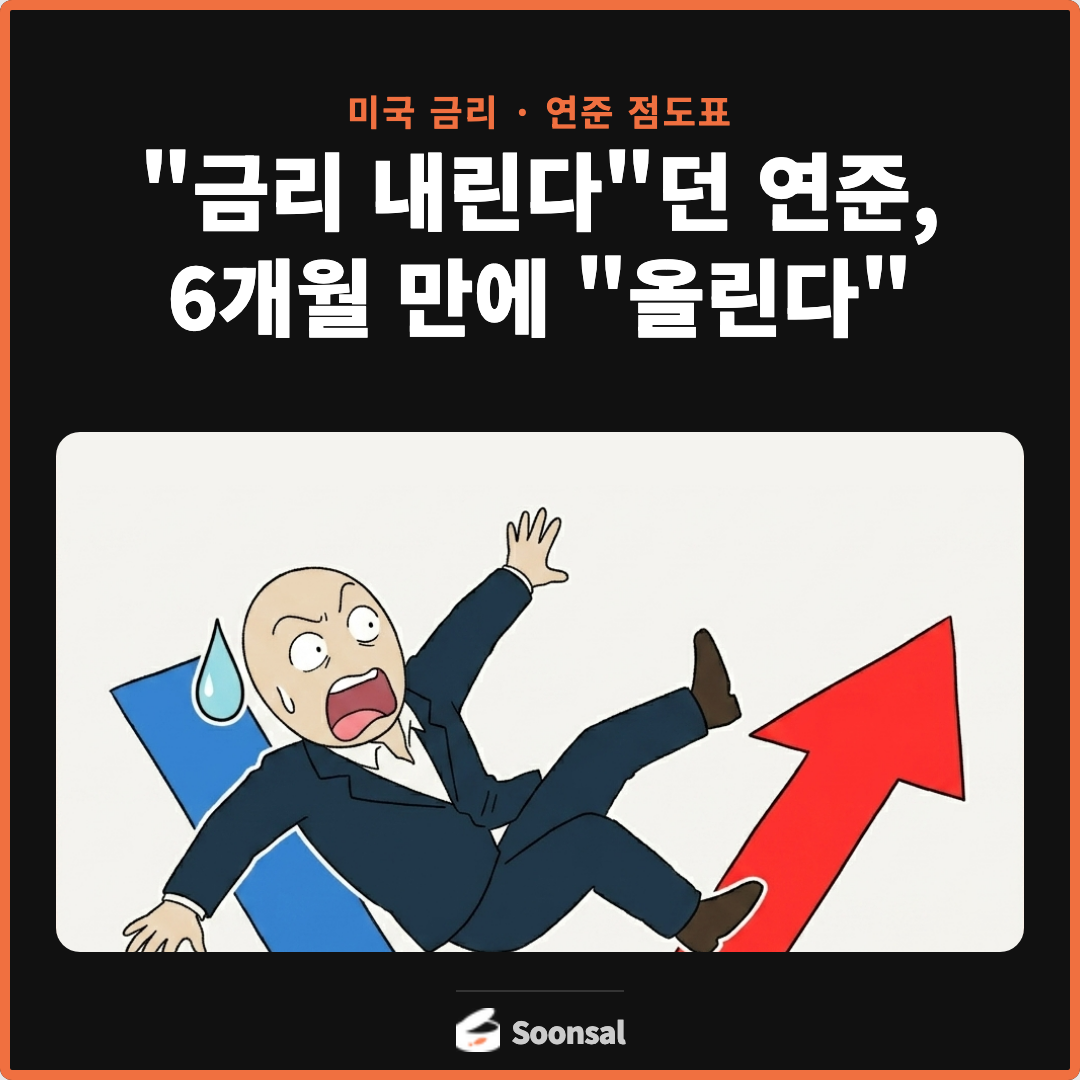
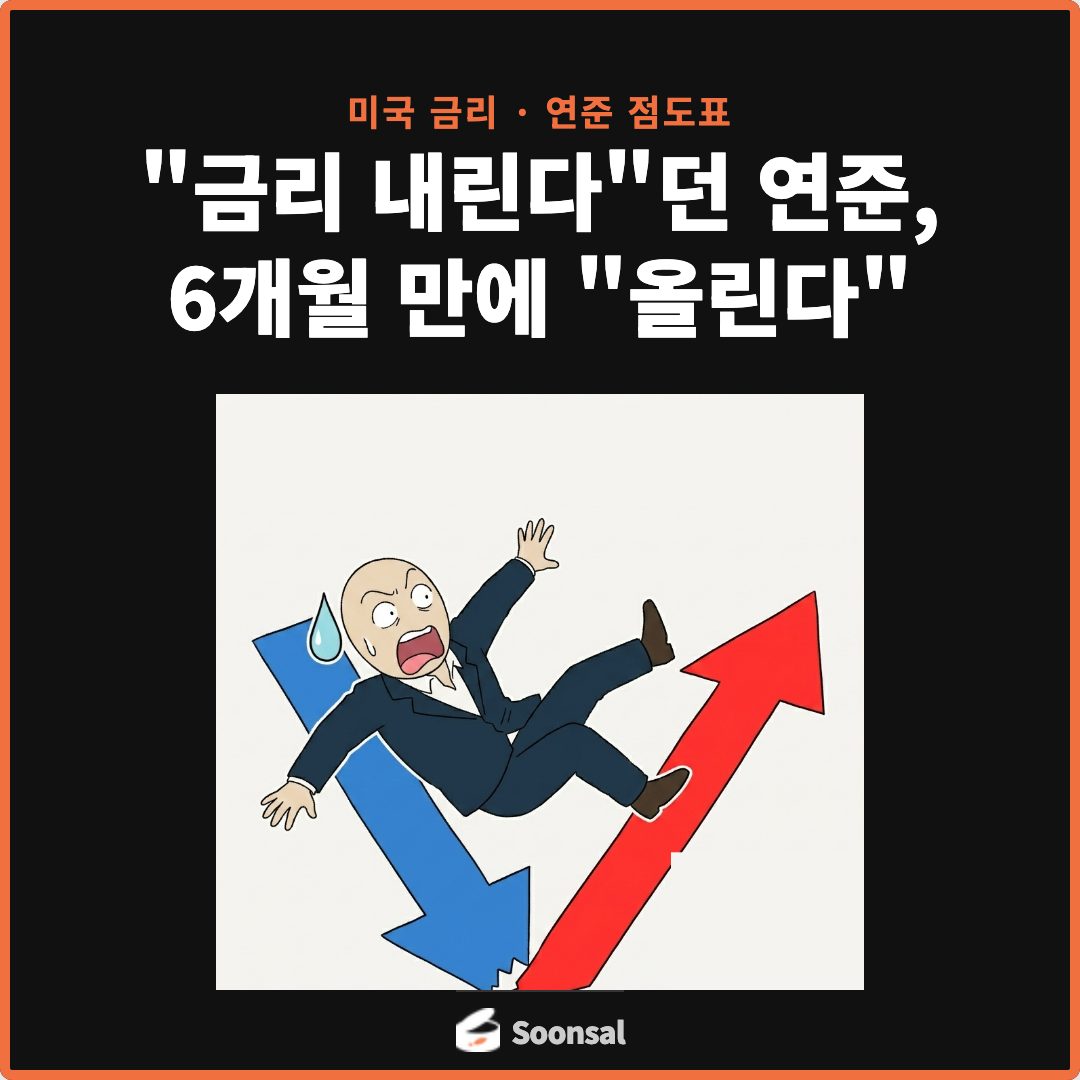
Add 순살카드뉴스 0619

diff --git a/cardnews/index.html b/cardnews/index.html
@@ -218,6 +218,14 @@
 
 
 <div class="today">
+    <div class="today-title">2026.06.19</div>
+    <div class="today-grid" style="grid-template-columns:1fr; gap:10px;">
+      <a href="/cardnews/2026/0619.html" style="display:flex; align-items:center; gap:10px;"><span class="tag tag-card">Card</span>순살카드뉴스 · 금리 내린다던 연준, 6개월 만에 올린다</a>
+    </div>
+  </div>
+
+
+<div class="today">
     <div class="today-title">2026.06.17</div>
     <div class="today-grid" style="grid-template-columns:1fr; gap:10px;">
       <a href="/cardnews/2026/0617.html" style="display:flex; align-items:center; gap:10px;"><span class="tag tag-card">Card</span>순살카드뉴스 · 삼전·하이닉스 끌어올린 돈, 월가가 조이는 중</a>

diff --git a/index.html b/index.html
@@ -208,6 +208,7 @@
   <div class="today-title">2026.06.19 전체 콘텐츠</div>
   <div class="today-grid" style="grid-template-columns:1fr; gap:10px;">
     <a href="/newsletters/2026/0619-crypto.html" style="display:flex; align-items:center; gap:10px;"><span class="tag tag-crypto">Crypto</span>순살크립토 · 🐟 주식은 올랐는데 나만 빠짐</a>
+    <a href="/cardnews/2026/0619.html" style="display:flex; align-items:center; gap:10px;"><span class="tag tag-card">Card</span>순살카드뉴스 · 금리 내린다던 연준, 6개월 만에 올린다</a>
   </div>
 </div>
 